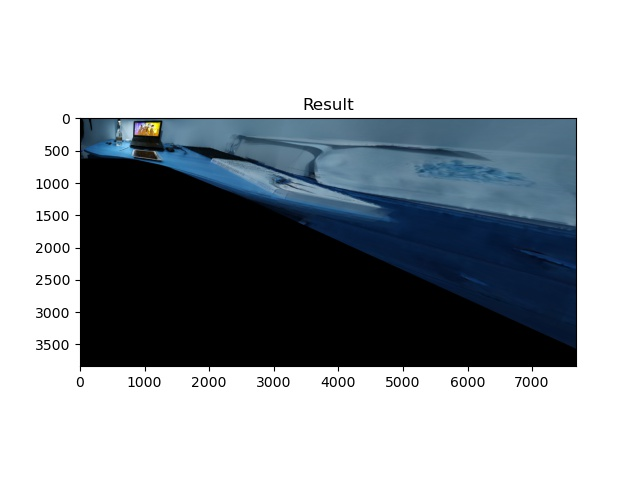
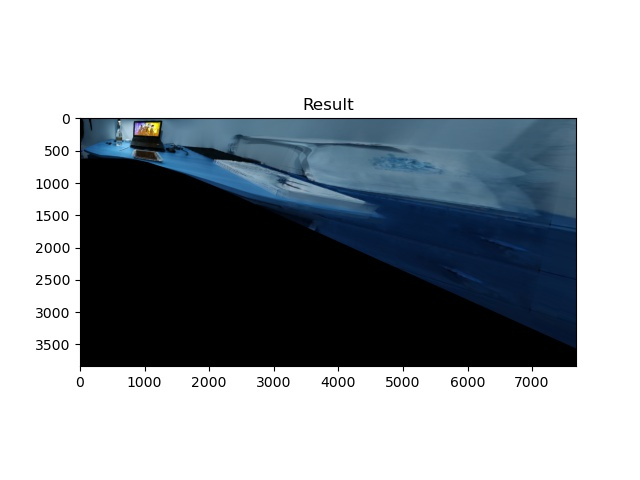
Added cropping

diff --git a/automatic2dmosaicing.py b/automatic2dmosaicing.py
@@ -17,6 +17,15 @@ def blending(ref_img, warped_img):
     ref_img = np.divide(ref_img, w_tot, out=np.zeros_like(ref_img), where=w_tot != 0).astype("uint8")
     return ref_img
 
+def cropping(img):
+    gray = cv.cvtColor(img, cv.COLOR_BGR2GRAY)
+    _, thresh = cv.threshold(gray, 1, 255, cv.THRESH_BINARY)
+    contours, hierarchy = cv.findContours(thresh, cv.RETR_EXTERNAL, cv.CHAIN_APPROX_SIMPLE)
+    cnt = contours[0]
+    x, y, w, h = cv.boundingRect(cnt)
+    crop = img[y:y + h, x:x + w]
+    return crop
+
 
 # ALGORITHM
 # 1) Choose one image of the set as a reference
@@ -31,7 +40,7 @@ def blending(ref_img, warped_img):
 SRC_IMAGES_FOLDER = "images"
 SRC_TEST = ["test_1", "test_2", "test_3"]
 
-CONSIDERED = SRC_TEST[0]
+CONSIDERED = SRC_TEST[2]
 
 DST_MOSAICING_FOLDER = "mosaicing"
 DST_SIFT_FOLDER = "sift"
@@ -115,5 +124,6 @@ while i < len(images):
     else:
         print(f"[INFO] not enough matches are found for image_{i}")
 
+ref_img = cropping(ref_img)
 cv.imwrite(f"{DST_MOSAICING_FOLDER}/{CONSIDERED}/final_result.jpg", ref_img)
 
